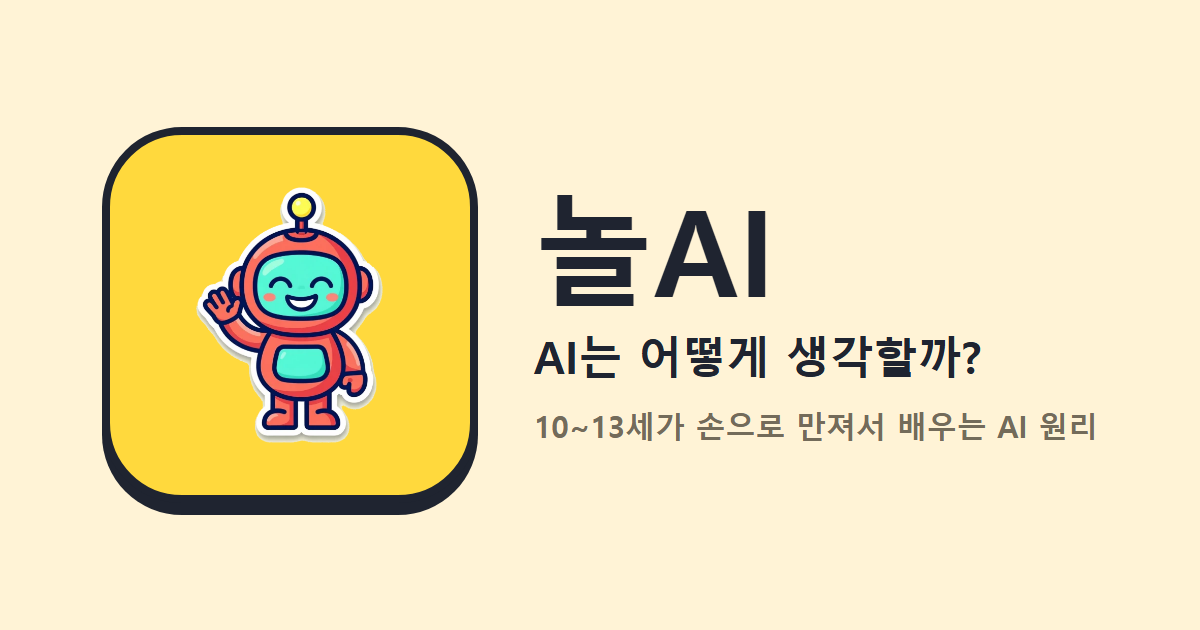
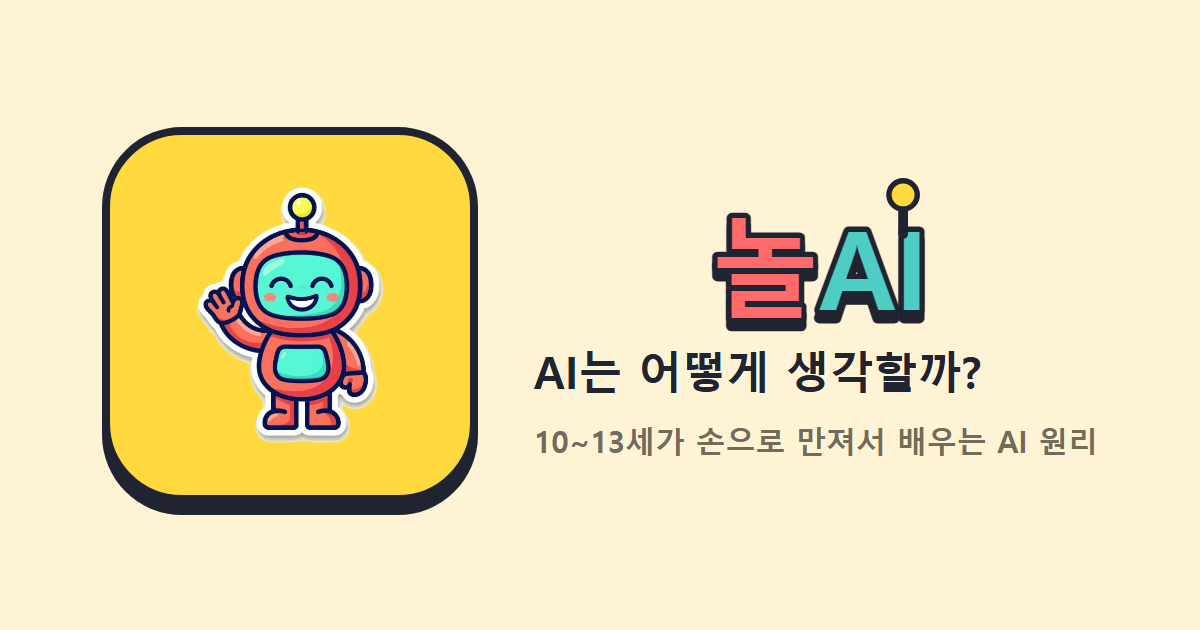
feat: 로고 — 워드마크 "놀AI"와 노리 얼굴 파비콘
워드마크는 그림이 아니라 SVG 텍스트(components/Logo.tsx). 코랄 놀 + 민트 AI에
잉크 외곽선과 오프셋 그림자, "I" 위에 노리의 안테나. 상단 바(h-8)부터 OG(150px)
까지 같은 코드가 크기만 바꿔 쓰인다. 랜딩 상단 바와 /play 제목에 넣었다.

파비콘은 지금까지 create-next-app 기본 삼각형이었다. 노리 얼굴을 크게 잘라
app/icon.png로 두고, 애플 아이콘도 app/apple-icon.png 파일 규칙으로 옮겼다 --
layout의 metadata.icons가 남아 있으면 Next가 파일 규칙 아이콘을 통째로 무시한다.
둘 다 tools/icons/make.js가 만들고, og.js는 로고를 복사해 쓴다.

Claude-Session: https://claude.ai/code/session_01WxHB6vVER97ocptu2wyBi8

diff --git a/tools/icons/make.js b/tools/icons/make.js
@@ -11,21 +11,29 @@ const html = (size, pad) => `<html><body style="margin:0">
   <div style="width:${size * (1 - pad * 2)}px;height:${size * (1 - pad * 2)}px;border-radius:${size * 0.22}px;background:#ffd93d;border:${Math.max(3, size * 0.025)}px solid #1f2430;box-shadow:0 ${size * 0.03}px 0 #1f2430;display:flex;align-items:center;justify-content:center"><img src="${mascot}" style="width:${size * 0.62}px;height:${size * 0.62}px;object-fit:contain"></div>
 </div></body></html>`;
 
+// 브라우저 탭 파비콘. 16px에서는 전신이 점으로 뭉개져서 얼굴만 크게 잘라 넣는다.
+const favicon = (size) => `<html><body style="margin:0">
+<div style="width:${size}px;height:${size}px;border-radius:${size * 0.22}px;background:#ffd93d;border:${size * 0.06}px solid #1f2430;overflow:hidden;position:relative;box-sizing:border-box">
+  <img src="${mascot}" style="position:absolute;width:${size * 1.7}px;height:${size * 1.7}px;left:${-size * 0.35}px;top:${-size * 0.05}px"></div>
+</body></html>`;
+
 // maskable은 플랫폼이 가장자리를 잘라내므로 안쪽에 더 여유를 둔다.
 const targets = [
-  ["icon-192.png", 192, 0.08],
-  ["icon-512.png", 512, 0.08],
-  ["icon-maskable-512.png", 512, 0.18],
-  ["apple-touch-icon.png", 180, 0.06],
+  ["public/icon-192.png", html(192, 0.08), 192],
+  ["public/icon-512.png", html(512, 0.08), 512],
+  ["public/icon-maskable-512.png", html(512, 0.18), 512],
+  // app/ 아래 두 개는 Next 파일 규칙이라 <link rel="icon">·apple-touch-icon이 자동으로 붙는다.
+  ["app/apple-icon.png", html(180, 0.06), 180],
+  ["app/icon.png", favicon(64), 64],
 ];
 
 (async () => {
   const browser = await chromium.launch();
-  for (const [name, size, pad] of targets) {
+  for (const [name, markup, size] of targets) {
     const page = await browser.newPage({ viewport: { width: size, height: size }, deviceScaleFactor: 1 });
-    await page.setContent(html(size, pad));
+    await page.setContent(markup);
     await page.waitForTimeout(200);
-    await page.screenshot({ path: `public/${name}`, clip: { x: 0, y: 0, width: size, height: size } });
+    await page.screenshot({ path: name, clip: { x: 0, y: 0, width: size, height: size }, omitBackground: true });
     await page.close();
     console.log(name);
   }

diff --git a/frontend/components/Logo.tsx b/frontend/components/Logo.tsx
@@ -1,0 +1,30 @@
+/**
+ * 워드마크 "놀AI". 심볼은 따로 없다 -- 마스코트 노리가 그 역할을 하고, 이 글자의
+ * "I" 위에 노리의 안테나(노란 공)만 옮겨 왔다. 글자는 그림 파일이 아니라 SVG 텍스트라
+ * 상단 바(32px)부터 OG 이미지까지 같은 코드가 크기만 바꿔 쓰인다. 색·외곽선·오프셋
+ * 그림자는 DESIGN.md의 스티커 규칙 그대로다. 모양을 바꾸면 tools/icons/og.js의
+ * 복사본도 같이 바꾼다.
+ *
+ * 높이는 className으로 준다(h-8 등). 너비는 비율대로 따라온다.
+ */
+export default function Logo({ className = "h-8" }: { className?: string }) {
+  return (
+    <svg
+      viewBox="-6 -28 206 138"
+      role="img"
+      aria-label="놀AI"
+      className={`w-auto overflow-visible font-sans font-black ${className}`}
+      style={{ letterSpacing: "-0.03em" }}
+    >
+      <g fontSize={100} strokeWidth={10} strokeLinejoin="round" style={{ paintOrder: "stroke fill" }}>
+        <text x={0} y={100} transform="translate(0,7)" className="fill-ink stroke-ink">놀AI</text>
+        <text x={0} y={100} className="stroke-ink">
+          <tspan className="fill-candy-red">놀</tspan>
+          <tspan className="fill-candy-teal">AI</tspan>
+        </text>
+      </g>
+      <line x1={177} y1={30} x2={177} y2={6} strokeWidth={9} strokeLinecap="round" className="stroke-ink" />
+      <circle cx={177} cy={-6} r={13} strokeWidth={5} className="fill-candy-yellow stroke-ink" />
+    </svg>
+  );
+}

diff --git a/tools/icons/og.js b/tools/icons/og.js
@@ -13,7 +13,15 @@ const html = `<html><head><link rel="stylesheet" href="${font}"></head>
     <img src="${mascot}" style="width:260px;height:260px;object-fit:contain">
   </div>
   <div style="display:flex;flex-direction:column;gap:20px">
-    <div style="font-size:120px;font-weight:900;line-height:1">놀AI</div>
+    <!-- components/Logo.tsx의 복사본. 로고 모양을 바꾸면 여기도 같이 바꾼다. -->
+    <svg viewBox="-6 -28 206 138" style="height:150px;overflow:visible;font-weight:900;letter-spacing:-0.03em">
+      <g font-size="100" stroke-width="10" stroke-linejoin="round" style="paint-order:stroke fill">
+        <text x="0" y="100" transform="translate(0,7)" fill="#1f2430" stroke="#1f2430">놀AI</text>
+        <text x="0" y="100" stroke="#1f2430"><tspan fill="#ff6b6b">놀</tspan><tspan fill="#4ecdc4">AI</tspan></text>
+      </g>
+      <line x1="177" y1="30" x2="177" y2="6" stroke="#1f2430" stroke-width="9" stroke-linecap="round"/>
+      <circle cx="177" cy="-6" r="13" fill="#ffd93d" stroke="#1f2430" stroke-width="5"/>
+    </svg>
     <div style="font-size:44px;font-weight:800">AI는 어떻게 생각할까?</div>
     <div style="font-size:30px;font-weight:600;color:#736b5a">10~13세가 손으로 만져서 배우는 AI 원리</div>
   </div>

diff --git a/frontend/components/landing/Landing.tsx b/frontend/components/landing/Landing.tsx
@@ -6,6 +6,7 @@ import Image from "next/image";
 import { motion, useReducedMotion } from "motion/react";
 import EmbeddingMap from "@/playgrounds/embedding-map/EmbeddingMap";
 import Confetti from "@/components/fx/Confetti";
+import Logo from "@/components/Logo";
 import type { PlaygroundEvent } from "@/playgrounds/types";
 import { lessonArt, mascotArt, type MascotMood } from "@/lib/art";
 import { curriculum, lessonBlurbs } from "@/copy/landing";
@@ -62,7 +63,7 @@ export default function Landing({
     <div className="flex flex-col break-keep">
       <header className="sticky top-0 z-40 border-b-[3px] border-ink bg-cream">
         <div className="mx-auto flex max-w-6xl items-center justify-between px-5 py-3">
-          <span className="text-2xl font-black">놀AI</span>
+          <Logo className="h-8" />
           <nav className="flex items-center gap-2 text-sm font-extrabold">
             <a href="#adults" className="hidden px-3 py-2 sm:inline">부모·선생님께</a>
             <Link

diff --git a/frontend/app/play/page.tsx b/frontend/app/play/page.tsx
@@ -4,6 +4,7 @@ import { listLessonGroups } from "@/lib/content";
 import { ui } from "@/copy/ui";
 import Image from "next/image";
 import LessonList from "@/components/LessonList";
+import Logo from "@/components/Logo";
 import { mascotArt } from "@/lib/art";
 
 // 아이의 첫 화면. 검색은 랜딩(/)이 맡는다 -- robots.ts와 같은 판단.
@@ -20,7 +21,9 @@ export default function Home() {
   return (
     <main className="mx-auto flex min-h-screen max-w-md flex-col items-center justify-center gap-6 px-5 text-center">
       <Image src={mascotArt("base")} alt="" width={144} height={144} priority className="bob h-36 w-36" />
-      <h1 className="text-5xl font-black">{ui.landingTitle}</h1>
+      <h1>
+        <Logo className="h-16" />
+      </h1>
       <p className="text-lg font-extrabold">{ui.landingSubtitle}</p>
       <p className="text-sm text-muted">들어가서 만져봐 👋</p>
       <LessonList groups={groups} />

diff --git a/frontend/app/layout.tsx b/frontend/app/layout.tsx
@@ -12,7 +12,8 @@ export const metadata: Metadata = {
   // 카톡·메신저에 링크를 붙였을 때의 미리보기. 이미지는 app/opengraph-image.png.
   openGraph: { type: "website", siteName: "놀AI", locale: "ko_KR" },
   manifest: "/manifest.webmanifest",
-  icons: { apple: "/apple-touch-icon.png" },
+  // 아이콘은 여기 적지 않는다. icons를 적으면 Next가 파일 규칙(app/icon.png,
+  // app/apple-icon.png)을 통째로 무시한다. 둘 다 tools/icons/make.js가 만든다.
   // iOS는 manifest의 display를 안 보고 이 메타 태그로 전체화면 여부를 정한다.
   appleWebApp: { capable: true, statusBarStyle: "default", title: "놀AI" },
 };

diff --git a/DESIGN.md b/DESIGN.md
@@ -221,7 +221,7 @@ components:
 - **Group card** (랜딩): 페이퍼, 3px 선, sticker-lg, `p-4 lg:p-5`, 안쪽 목록은 `divide-y-[2px] divide-ink/15`.
 
 ### Navigation
-- 랜딩 상단 바: `sticky top-0`, 크림 바탕, 하단 3px 잉크 선, 로고 `text-2xl` 900 + 텍스트 링크(sm 이상) + 노랑 시작하기. 아이 화면은 상단 바 없음 — 푸터의 `text-xs muted underline` 링크 두 개뿐.
+- 랜딩 상단 바: `sticky top-0`, 크림 바탕, 하단 3px 잉크 선, 로고(`components/Logo.tsx` 워드마크, `h-8`) + 텍스트 링크(sm 이상) + 노랑 시작하기. 아이 화면은 상단 바 없음 — 푸터의 `text-xs muted underline` 링크 두 개뿐.
 
 ### 노리 (Signature)
 - 포즈 7종 `base·curious·happy·surprised·wave·point·think`(`lib/art.ts` `mascotArt`). 대기 상태는 `.bob`(2.4s, -6px). 포즈 전환은 `scale 0.7, rotate -8 → 1, 0` 스프링(stiffness 260, damping 14)(`Landing.tsx`). 아이 화면 크기 144~160px, 말풍선 안은 32px, 랜딩 섹션은 80~208px.
